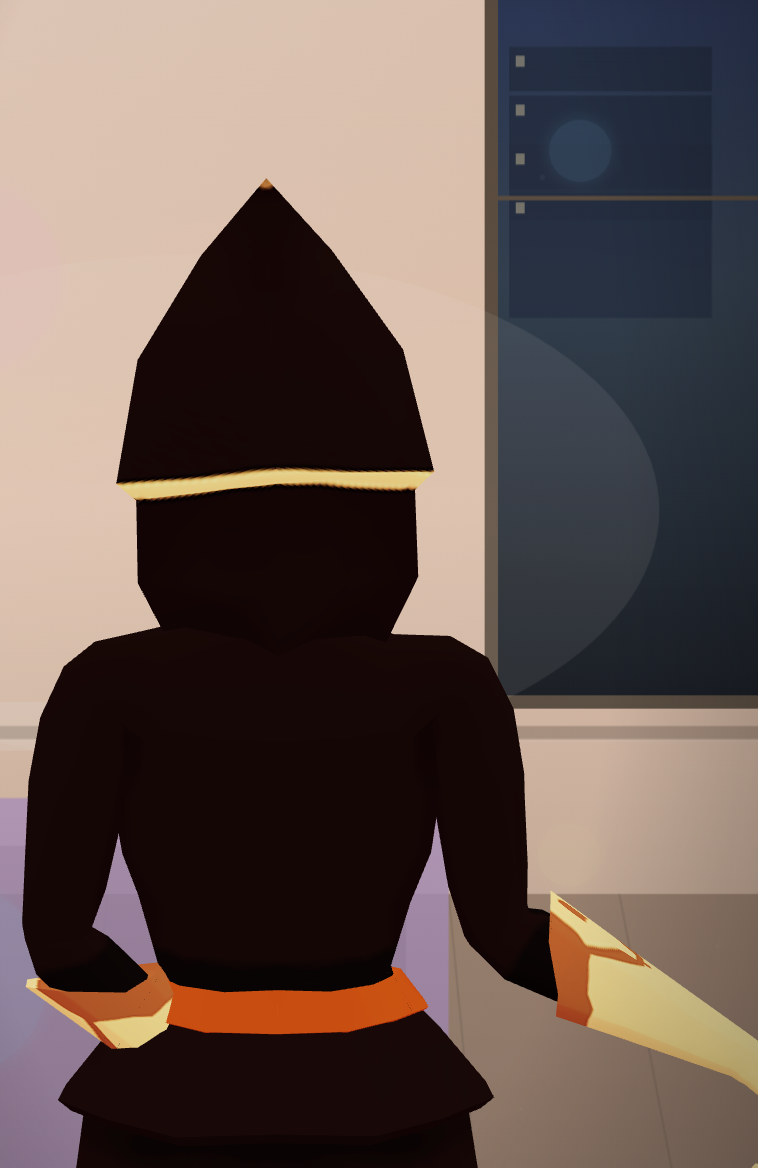
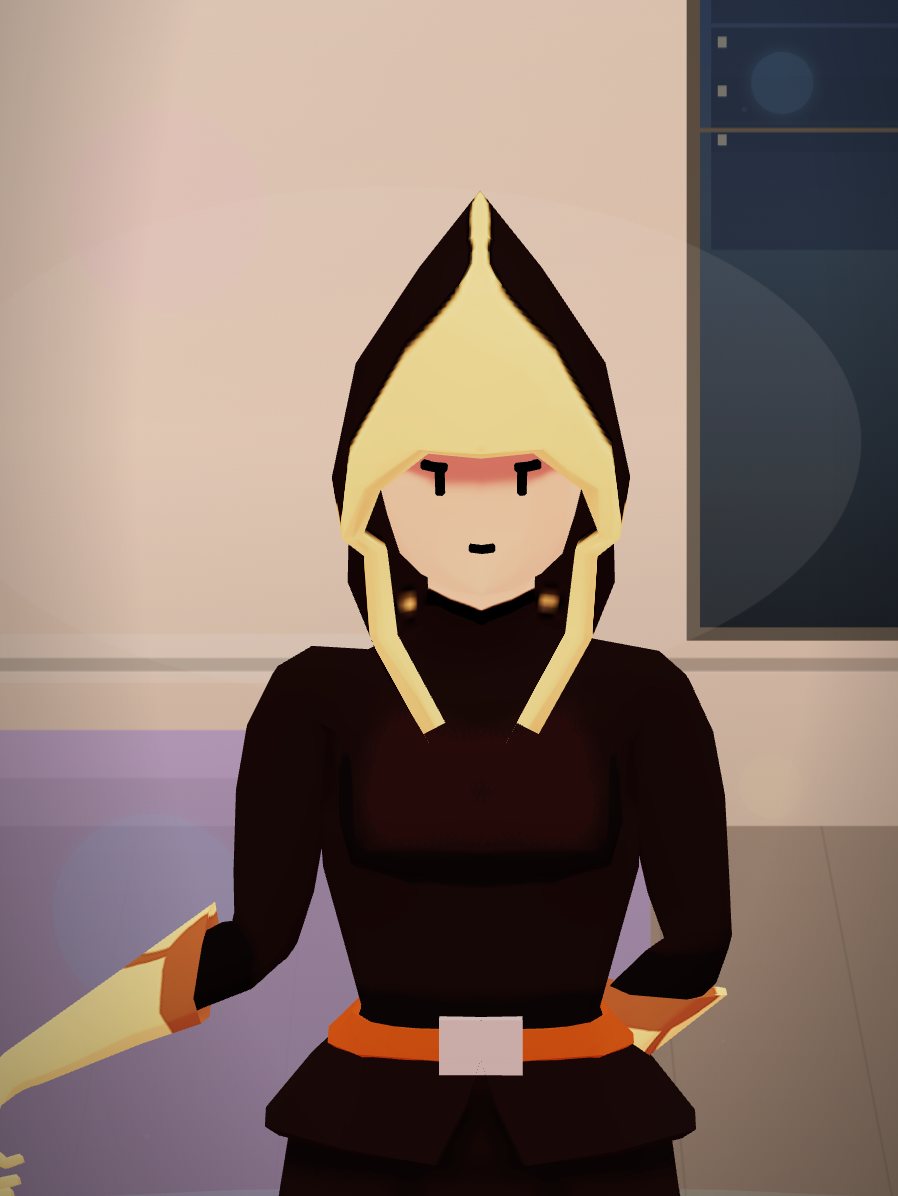
fix(companion): hold roster capture lock against RAF portrait resets
The main animation loop was still running applyDefaultPortraitFrame,
auto-camera, orbit follow, and boot portrait yaw fixes during headless
roster capture, undoing zSign/yaw locks between pick and screenshot.

Short-circuit yaw overrides (Yuki/Olivia), skip portrait resets while
rosterCaptureMode is active, and reapply lock after pick in the regen script.

diff --git a/amoji-engine/engine/companion/vrmAvatar.js b/amoji-engine/engine/companion/vrmAvatar.js
@@ -36,6 +36,8 @@ import {
   portraitDistanceForHeight,
   isPhotorealPortraitCharacter,
   rosterCaptureVariantPickScore,
+  isInvertedPortraitBodyCharacter,
+  rosterCaptureYawOverride,
 } from "./companionPortraitFraming.js";
 import {
   bindCompanionAvatarPointer,
@@ -663,6 +665,8 @@ export async function createVrmAvatar(opts) {
   /** @type {(() => import('./companionCameraApply.js').ReturnType<typeof resolveFrontPortraitFrame>) | null} */
   let applyDefaultPortraitFrame = null;
   let rosterCaptureMode = false;
+  /** @type {{ baseY: number, yawAdd: number, zSign: number } | null} */
+  let rosterCaptureLock = null;
 
   configureVrmSpringStability(vrm, sceneEnvironment);
   establishCalmStandFromBind(vrm, bodyMotion, {
@@ -720,6 +724,10 @@ export async function createVrmAvatar(opts) {
   guardLookAtLids(vrm);
 
   applyDefaultPortraitFrame = () => {
+    if (rosterCaptureMode) {
+      reapplyRosterCaptureLock();
+      return;
+    }
     bodyMotion.cancelPokeShake?.();
     bodyMotion.resetSmoothedRoot?.();
     model.rotation.y = baseModelRotY;
@@ -1724,7 +1732,7 @@ export async function createVrmAvatar(opts) {
             cameraResetAnim = null;
           }
         }
-      } else if (!userOwnsCamera && camState.autoActive) {
+      } else if (!userOwnsCamera && camState.autoActive && !rosterCaptureMode) {
         const desired = applyAutoCameraFrame(
           controls,
           camera,
@@ -1743,7 +1751,7 @@ export async function createVrmAvatar(opts) {
         portraitCamera.fov = desired.fov;
         portraitCamera.distance = desired.distance;
       } else {
-        if (!userOwnsCamera && !vrmaOwnsBody) {
+        if (!userOwnsCamera && !vrmaOwnsBody && !rosterCaptureMode) {
           applyOrbitFollowAnchor(controls, camera, smoothedFrameAnchor);
         }
         controls.update();
@@ -1755,6 +1763,7 @@ export async function createVrmAvatar(opts) {
       if (
         headBone &&
         portraitFacingBootOnly &&
+        !rosterCaptureMode &&
         !userOwnsCamera &&
         !camState.userFramingHeld &&
         !libraryMotion &&
@@ -1914,7 +1923,12 @@ export async function createVrmAvatar(opts) {
 
   function prepareRosterCapture() {
     rosterCaptureMode = true;
-    resetCameraView();
+    bodyMotion.cancelPokeShake?.();
+    bodyMotion.resetSmoothedRoot?.();
+    model.rotation.y = 0;
+    baseModelRotY = 0;
+    model.updateMatrixWorld(true);
+    headBone?.updateMatrixWorld(true);
     warmPresentFrameCore();
   }
 
@@ -2040,14 +2054,34 @@ export async function createVrmAvatar(opts) {
     portraitCameraZSign = zSign;
     syncLookTarget();
     warmPresentFrameCore();
+    rosterCaptureLock = { baseY, yawAdd, zSign };
+  }
+
+  function reapplyRosterCaptureLock() {
+    if (!rosterCaptureLock || !rosterCaptureMode) return false;
+    const { baseY, yawAdd, zSign } = rosterCaptureLock;
+    applyRosterCaptureVariant(baseY, yawAdd, zSign);
+    return true;
   }
 
   function pickBestRosterCaptureYaw() {
-    resetCameraView();
+    if (!rosterCaptureMode) {
+      resetCameraView();
+    }
     warmPresentFrameCore();
     const baseY = baseModelRotY;
+    const yawOverrideEarly = rosterCaptureYawOverride(loadedCharacterId);
+    if (yawOverrideEarly) {
+      applyRosterCaptureVariant(
+        baseY,
+        yawOverrideEarly.yawAdd,
+        yawOverrideEarly.zSign,
+      );
+      warmPresentFrameCore();
+      return 999;
+    }
     let bestScore = -1;
-    let bestYaw = baseY;
+    let bestYawAdd = 0;
     let bestZSign = portraitCameraZSign;
     const yawCandidates = [0, Math.PI];
     for (const yawAdd of yawCandidates) {
@@ -2066,42 +2100,69 @@ export async function createVrmAvatar(opts) {
         const scored = s + backHood;
         if (scored > bestScore) {
           bestScore = scored;
-          bestYaw = baseModelRotY;
+          bestYawAdd = yawAdd;
           bestZSign = zSign;
         }
       }
     }
     if (bestScore < 0) {
-      bestYaw = baseY;
+      bestYawAdd = 0;
       bestZSign = portraitCameraZSign;
     }
-    applyRosterCaptureVariant(baseY, bestYaw - baseY, bestZSign);
+    applyRosterCaptureVariant(baseY, bestYawAdd, bestZSign);
 
-    let finalizeScore = -Infinity;
-    let finalizeYaw = bestYaw;
+    let finalizeYawAdd = bestYawAdd;
     let finalizeZ = bestZSign;
-    for (const yawAdd of yawCandidates) {
-      for (const zSign of [1, -1]) {
-        applyRosterCaptureVariant(baseY, yawAdd, zSign);
-        const body = modelBodyFacingScore(model, camera.position);
-        const head = headBone
-          ? facingAlignmentScore(headBone, camera.position, vrm.humanoid)
-          : body;
-        if (Math.abs(body) < 0.22 && Math.abs(head) < 0.22) continue;
-        const contrast = measurePortraitCaptureContrast();
-        const pickScore = rosterCaptureVariantPickScore(
-          body,
-          contrast,
-          loadedCharacterId,
-        );
-        if (pickScore > finalizeScore) {
-          finalizeScore = pickScore;
-          finalizeYaw = baseModelRotY;
-          finalizeZ = zSign;
+    if (isInvertedPortraitBodyCharacter(loadedCharacterId)) {
+      let minBody = Infinity;
+      for (const yawAdd of yawCandidates) {
+        for (const zSign of [1, -1]) {
+          applyRosterCaptureVariant(baseY, yawAdd, zSign);
+          const body = modelBodyFacingScore(model, camera.position);
+          const head = headBone
+            ? facingAlignmentScore(headBone, camera.position, vrm.humanoid)
+            : body;
+          if (Math.abs(body) < 0.22 && Math.abs(head) < 0.22) continue;
+          if (body < minBody) {
+            minBody = body;
+            finalizeYawAdd = yawAdd;
+            finalizeZ = zSign;
+          }
+        }
+      }
+    } else {
+      let finalizeScore = -Infinity;
+      for (const yawAdd of yawCandidates) {
+        for (const zSign of [1, -1]) {
+          applyRosterCaptureVariant(baseY, yawAdd, zSign);
+          const body = modelBodyFacingScore(model, camera.position);
+          const head = headBone
+            ? facingAlignmentScore(headBone, camera.position, vrm.humanoid)
+            : body;
+          if (Math.abs(body) < 0.22 && Math.abs(head) < 0.22) continue;
+          const contrast = measurePortraitCaptureContrast();
+          const pickScore = rosterCaptureVariantPickScore(
+            body,
+            contrast,
+            loadedCharacterId,
+          );
+          if (pickScore > finalizeScore) {
+            finalizeScore = pickScore;
+            finalizeYawAdd = yawAdd;
+            finalizeZ = zSign;
+          }
         }
       }
     }
-    applyRosterCaptureVariant(baseY, finalizeYaw - baseY, finalizeZ);
+    applyRosterCaptureVariant(baseY, finalizeYawAdd, finalizeZ);
+    const yawOverride = rosterCaptureYawOverride(loadedCharacterId);
+    if (yawOverride) {
+      applyRosterCaptureVariant(
+        baseY,
+        yawOverride.yawAdd,
+        yawOverride.zSign,
+      );
+    }
     warmPresentFrameCore();
     return bestScore;
   }
@@ -2207,6 +2268,7 @@ export async function createVrmAvatar(opts) {
     clipW = Math.min(clipW, w - x);
     clipH = Math.min(clipH, h - y);
     if (clipW < 24 || clipH < 32) return null;
+    if (clipH < h * 0.28 || clipW < w * 0.18) return null;
     const upright = clipH >= clipW * 0.85;
     return { x, y, width: clipW, height: clipH, upright };
   }
@@ -2479,6 +2541,8 @@ export async function createVrmAvatar(opts) {
     },
     prepareRosterCapture,
     finishRosterCapture,
+    reapplyRosterCaptureLock,
+    applyRosterCaptureVariant,
     computeRosterPreviewClip,
     warmPresentFrame: warmPresentFrameCore,
     getPortraitFacing() {

diff --git a/prototypes/amoji-companion.html b/prototypes/amoji-companion.html
@@ -8,9 +8,9 @@
     <meta http-equiv="Expires" content="0" />
     <title>Amoji · Companion</title>
     <script>
-      window.__amojiBuild = "2026-09-24-v568-mon-roster-capture-yaw";
+      window.__amojiBuild = "2026-09-24-v570-mon-roster-capture-raf-lock";
     </script>
-    <script src="/amoji-engine/engine/companion/companionEarlyFreshBoot.js?v=2026-09-24-v568-mon-roster-capture-yaw"></script>
+    <script src="/amoji-engine/engine/companion/companionEarlyFreshBoot.js?v=2026-09-24-v570-mon-roster-capture-raf-lock"></script>
     <link
       rel="prefetch"
       href="/prototypes/assets/companion-char-nova.png"
@@ -694,28 +694,28 @@
       media="print"
       onload="this.media='all'"
     />
-    <link rel="stylesheet" href="/prototypes/companion-grok-ani.css?v=2026-09-24-v568-mon-roster-capture-yaw" />
-    <link rel="stylesheet" href="/prototypes/companion-ui-effects.css?v=2026-09-24-v568-mon-roster-capture-yaw" />
-    <link rel="stylesheet" href="/prototypes/companion-mic-button.css?v=2026-09-24-v568-mon-roster-capture-yaw" />
-    <link rel="stylesheet" href="/prototypes/companion-title-screen.css?v=2026-09-24-v568-mon-roster-capture-yaw" />
-    <link rel="stylesheet" href="/prototypes/companion-minimal-ui.css?v=2026-09-24-v568-mon-roster-capture-yaw" />
-    <link rel="stylesheet" href="/prototypes/companion-settings-ui.css?v=2026-09-24-v568-mon-roster-capture-yaw" />
-    <link rel="stylesheet" href="/prototypes/companion-mobile-shell.css?v=2026-09-24-v568-mon-roster-capture-yaw" />
-    <link rel="stylesheet" href="/prototypes/companion-picker-v4.css?v=2026-09-24-v568-mon-roster-capture-yaw" />
-    <link rel="stylesheet" href="/prototypes/companion-picker-stacked-layout.css?v=2026-09-24-v568-mon-roster-capture-yaw" />
-    <link rel="stylesheet" href="/prototypes/companion-picker-aaa-theme.css?v=2026-09-24-v568-mon-roster-capture-yaw" />
-    <link rel="stylesheet" href="/prototypes/companion-jp-aaa-shell.css?v=2026-09-24-v568-mon-roster-capture-yaw" />
-    <link rel="stylesheet" href="/prototypes/companion-responsive-layout.css?v=2026-09-24-v568-mon-roster-capture-yaw" />
-    <link rel="stylesheet" href="/prototypes/companion-chat-stack.css?v=2026-09-24-v568-mon-roster-capture-yaw" />
-    <link rel="stylesheet" href="/prototypes/companion-app-width.css?v=2026-09-24-v568-mon-roster-capture-yaw" />
-    <link rel="stylesheet" href="/prototypes/companion-scroll-affordances.css?v=2026-09-24-v568-mon-roster-capture-yaw" />
+    <link rel="stylesheet" href="/prototypes/companion-grok-ani.css?v=2026-09-24-v570-mon-roster-capture-raf-lock" />
+    <link rel="stylesheet" href="/prototypes/companion-ui-effects.css?v=2026-09-24-v570-mon-roster-capture-raf-lock" />
+    <link rel="stylesheet" href="/prototypes/companion-mic-button.css?v=2026-09-24-v570-mon-roster-capture-raf-lock" />
+    <link rel="stylesheet" href="/prototypes/companion-title-screen.css?v=2026-09-24-v570-mon-roster-capture-raf-lock" />
+    <link rel="stylesheet" href="/prototypes/companion-minimal-ui.css?v=2026-09-24-v570-mon-roster-capture-raf-lock" />
+    <link rel="stylesheet" href="/prototypes/companion-settings-ui.css?v=2026-09-24-v570-mon-roster-capture-raf-lock" />
+    <link rel="stylesheet" href="/prototypes/companion-mobile-shell.css?v=2026-09-24-v570-mon-roster-capture-raf-lock" />
+    <link rel="stylesheet" href="/prototypes/companion-picker-v4.css?v=2026-09-24-v570-mon-roster-capture-raf-lock" />
+    <link rel="stylesheet" href="/prototypes/companion-picker-stacked-layout.css?v=2026-09-24-v570-mon-roster-capture-raf-lock" />
+    <link rel="stylesheet" href="/prototypes/companion-picker-aaa-theme.css?v=2026-09-24-v570-mon-roster-capture-raf-lock" />
+    <link rel="stylesheet" href="/prototypes/companion-jp-aaa-shell.css?v=2026-09-24-v570-mon-roster-capture-raf-lock" />
+    <link rel="stylesheet" href="/prototypes/companion-responsive-layout.css?v=2026-09-24-v570-mon-roster-capture-raf-lock" />
+    <link rel="stylesheet" href="/prototypes/companion-chat-stack.css?v=2026-09-24-v570-mon-roster-capture-raf-lock" />
+    <link rel="stylesheet" href="/prototypes/companion-app-width.css?v=2026-09-24-v570-mon-roster-capture-raf-lock" />
+    <link rel="stylesheet" href="/prototypes/companion-scroll-affordances.css?v=2026-09-24-v570-mon-roster-capture-raf-lock" />
     <link
       rel="stylesheet"
-      href="/prototypes/companion-scene-backgrounds.css?v=2026-09-24-v568-mon-roster-capture-yaw"
+      href="/prototypes/companion-scene-backgrounds.css?v=2026-09-24-v570-mon-roster-capture-raf-lock"
     />
     <link
       rel="stylesheet"
-      href="/prototypes/companion-start-picker-sheet.css?v=2026-09-24-v568-mon-roster-capture-yaw"
+      href="/prototypes/companion-start-picker-sheet.css?v=2026-09-24-v570-mon-roster-capture-raf-lock"
     />
     <script>
       (function () {
@@ -734,7 +734,7 @@
       })();
     </script>
     <script type="module">
-      import { bootEarlyStartPicker } from "/amoji-engine/engine/companion/companionEarlyStartPicker.js?v=2026-09-24-v568-mon-roster-capture-yaw";
+      import { bootEarlyStartPicker } from "/amoji-engine/engine/companion/companionEarlyStartPicker.js?v=2026-09-24-v570-mon-roster-capture-raf-lock";
       import {
         applyBootPickerUrlDefaults,
         shouldShowStartPickerOnBoot,
@@ -4627,19 +4627,19 @@
     <script type="importmap">
       {
         "imports": {
-          "three": "/amoji-engine/vendor/three.module.js?v=2026-09-24-v568-mon-roster-capture-yaw",
+          "three": "/amoji-engine/vendor/three.module.js?v=2026-09-24-v570-mon-roster-capture-raf-lock",
           "three/addons/": "/amoji-engine/vendor/three/addons/",
-          "@pixiv/three-vrm": "/amoji-engine/vendor/three-vrm/three-vrm.module.min.js?v=2026-09-24-v568-mon-roster-capture-yaw",
-          "@pixiv/three-vrm-animation": "/amoji-engine/vendor/three-vrm-animation/three-vrm-animation.module.min.js?v=2026-09-24-v568-mon-roster-capture-yaw"
+          "@pixiv/three-vrm": "/amoji-engine/vendor/three-vrm/three-vrm.module.min.js?v=2026-09-24-v570-mon-roster-capture-raf-lock",
+          "@pixiv/three-vrm-animation": "/amoji-engine/vendor/three-vrm-animation/three-vrm-animation.module.min.js?v=2026-09-24-v570-mon-roster-capture-raf-lock"
         }
       }
     </script>
     <link
       rel="modulepreload"
-      href="/amoji-engine/engine/companion/companionPreload.js?v=2026-09-24-v568-mon-roster-capture-yaw"
+      href="/amoji-engine/engine/companion/companionPreload.js?v=2026-09-24-v570-mon-roster-capture-raf-lock"
     />
-    <script type="module" src="/amoji-engine/engine/companion/companionFreshBoot.js?v=2026-09-24-v568-mon-roster-capture-yaw"></script>
-    <script type="module" src="/amoji-engine/engine/companion/companionPreload.js?v=2026-09-24-v568-mon-roster-capture-yaw"></script>
+    <script type="module" src="/amoji-engine/engine/companion/companionFreshBoot.js?v=2026-09-24-v570-mon-roster-capture-raf-lock"></script>
+    <script type="module" src="/amoji-engine/engine/companion/companionPreload.js?v=2026-09-24-v570-mon-roster-capture-raf-lock"></script>
     <script>
       (function () {
         window.__amojiModuleBooted = false;

diff --git a/amoji-engine/engine/companion/companionPortraitFraming.js b/amoji-engine/engine/companion/companionPortraitFraming.js
@@ -12,6 +12,12 @@ export const PHOTOREAL_PORTRAIT_CHARACTER_IDS = new Set(["nova"]);
 /** Roster VRMs where visible front correlates with negative root forward vs camera. */
 export const INVERTED_PORTRAIT_BODY_FACING_IDS = new Set(["yuki", "olivia"]);
 
+/** Verified headless capture yaw/z relative to pick {@code baseY} (Olivia slot = Yuki VRM). */
+export const ROSTER_CAPTURE_YAW_OVERRIDES = {
+  yuki: { yawAdd: 0, zSign: -1 },
+  olivia: { yawAdd: 0, zSign: -1 },
+};
+
 /**
  * @param {string | null | undefined} characterId
  */
@@ -28,6 +34,15 @@ export function isInvertedPortraitBodyCharacter(characterId) {
   return INVERTED_PORTRAIT_BODY_FACING_IDS.has(
     String(characterId || "").toLowerCase(),
   );
+}
+
+/**
+ * @param {string | null | undefined} characterId
+ * @returns {{ yawAdd: number, zSign: number } | null}
+ */
+export function rosterCaptureYawOverride(characterId) {
+  const id = String(characterId || "").toLowerCase();
+  return ROSTER_CAPTURE_YAW_OVERRIDES[id] ?? null;
 }
 
 /**
